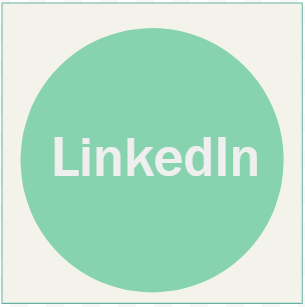
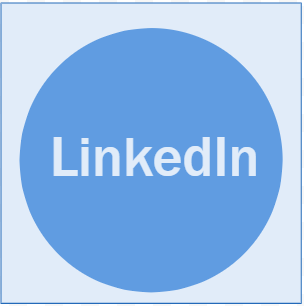
update color scheme

diff --git a/portfolio/src/main/webapp/style.css b/portfolio/src/main/webapp/style.css
@@ -1,5 +1,5 @@
 body {
-  background-color: #f3f3ec;
+  background-color: #E1ECF9;
 }
 
 h1,
@@ -12,7 +12,7 @@ input,
 select,
 li,
 button {
-  color: #858484;
+  color: #133863;
   font-family: Cambria, Cochin, Georgia, Times, 'Times New Roman', serif;
 }
 
@@ -38,11 +38,11 @@ li {
     font-size: 9vw;
     margin: -25px 30px 0 30px;
     padding-bottom: 5px;
-    border-bottom: 2px solid #858484;
+    border-bottom: 3px solid #236AB9;
   }
 
   #mobile-menu:active {
-    color: #b8b8b8;
+    color: #236AB9;
   }
 
   #nav-links {
@@ -56,6 +56,7 @@ li {
   #nav-links a {
     display: block;
     margin: 1px;
+    border-bottom: 3px solid #236AB9;
   }
 
   .nav-container {
@@ -64,27 +65,6 @@ li {
 
   #about-me-link {
     padding-top: 20px;
-    border-bottom: 4px solid #bd5a5a;
-  }
-
-  #projects-link {
-    border-bottom: 4px solid #edc75f;
-  }
-
-  #contact-me-link {
-    border-bottom: 4px solid #87d3af;
-  }
-
-  #gallery-link {
-    border-bottom: 4px solid #eae2a2;
-  }
-
-  #about-photography-link {
-    border-bottom: 4px solid #66b1a2;
-  }
-
-  #blog-link {
-    border-bottom: 4px solid #a73715;
   }
 
   h2 {
@@ -102,7 +82,7 @@ li {
   }
 
   img {
-    border: 5px solid #eae2a2;
+    border: 5px solid #236AB9;
     padding: 15px;
     margin: 10px;
   }
@@ -136,30 +116,11 @@ li {
     padding-bottom: 10px;
     border-bottom: 3px solid;
     margin: 25px 30px;
-  }
-
-  #mobile-about-me-header {
-    border-color: #bd5a5a;
-  }
-
-  #mobile-projects-header {
-    border-color: #edc75f;
-  }
-
-  #mobile-contact-me-header {
-    border-color: #87d3af;
-  }
-
-  #mobile-gallery-header {
-    border-color: #eae2a2;
-  }
-
-  #mobile-blog-header {
-    border-color: #a73715;
+    border-color: #236AB9;
   }
 
   .contact-me-mobile h2 {
-    border: 2px solid #87d3af;
+    border: 2px solid #236AB9;
     margin: 15px 110px;
     padding: 15px;
     border-radius: 5%;
@@ -184,13 +145,13 @@ li {
     height: 250px;
     margin: 10px 35px;
     padding: 5px;
-    border: 3px solid #a73715;
+    border: 3px solid #133863;
     border-radius: 5px;
   }
 
   #comment-container li {
     padding: 9px 10px;
-    border: 2px solid #a73715;
+    border: 2px solid #133863;
     border-radius: 5px;
     text-align: left;
     margin: 5px 10px 0 -30px;
@@ -207,9 +168,9 @@ li {
   #name-input {
     padding: 10px;
     width: 74%;
-    border: 2px solid #a73715;
+    border: 2px solid #133863;
     border-radius: 5px;
-    background-color: #f3f3ec;
+    background-color: #E1ECF9;
     font-size: 4vw;
   }
 
@@ -218,9 +179,9 @@ li {
   #max,
   #submit,
   #comment-container button {
-    background-color: #a73715;
+    background-color: #133863;
     color: whitesmoke;
-    border: 1px solid #a73715;
+    border: 1px solid #133863;
     border-radius: 5px;
     padding: 4px;
     font-size: 4vw;
@@ -282,7 +243,7 @@ li {
   h3,
   p,
   a {
-    color: #858484;
+    color: #133863;
     font-family: Cambria, Cochin, Georgia, Times, 'Times New Roman', serif;
   }
 
@@ -315,7 +276,7 @@ li {
   }
 
   a:hover {
-    color:#b8b8b8;
+    color:#236AB9;
   }
 
   a:hover img {
@@ -354,7 +315,7 @@ li {
   }
 
   .arrow-transition {
-    border: solid #b8b8b8;
+    border: solid #133863;
     border-width: 0 6px 6px 0;
     display: inline-block;
     padding: 8px;
@@ -363,7 +324,7 @@ li {
   }
 
   .arrow-transition:hover {
-    border: solid #858484;
+    border: solid #236AB9;
     border-width: 0 6px 6px 0;
     display: inline-block;
     padding: 8px;
@@ -546,11 +507,11 @@ li {
   }
 
   .comment-box {
-    background-color: rgb(245, 244, 237);
+    background-color: #E1ECF9;
     width: 77%;
     height: 330px;
     margin-top: 130px;
-    border: 2px solid #a73715;
+    border: 2px solid #133863;
     padding: 5px 0 30px 0;
   }
 
@@ -559,7 +520,7 @@ li {
   }
 
   .comment-input {
-    border: 2px solid #a73715;  
+    border: 2px solid #133863;  
     width: 70%;
     padding: 0 30px 20px 30px;
     margin-left: auto;
@@ -576,8 +537,8 @@ li {
 
   #text-input,
   #name-input {
-    background-color: rgb(245, 244, 237);
-    border: 2px solid #a73715;
+    background-color: #E1ECF9;
+    border: 2px solid #133863;
     margin-bottom: 8px;
   }  
 
@@ -585,7 +546,7 @@ li {
   #comment-container li,
   #name-input {
     font-size: 17px;
-    color: #666464;
+    color: #133863;
     padding: 13px;
   }
 
@@ -593,7 +554,7 @@ li {
     width: 100px;
     padding: 11px;
     margin: 5px 0;
-    border: solid #a73715;
+    border: solid #133863;
   }
 
   .comment-text-design,
@@ -606,14 +567,16 @@ li {
   #order,
   #name {
     font-size: 16px;
-    border: 1px solid #b8b8b8;
+    color: #E1ECF9;
+    border: 1px solid #133863;
+    background-color: #133863;
     padding: 2px 5px;
   }
 
   #max:hover,
   #order:hover,
   #name:hover {
-    background-color: whitesmoke;
+    background-color: #236AB9;
   }
 
   #order {
@@ -621,12 +584,12 @@ li {
   }
 
   #comment-container li {
-    border-bottom: 2px solid #a73715;
+    border-bottom: 2px solid #133863;
     margin: 5px 30px 5px -5px;
   }
 
   #comment-container li:hover {
-    box-shadow: 2px 2px 10px 8px #b8b8b8;
+    box-shadow: 2px 2px 10px 8px #236AB9;
   }
 
   .heart {
@@ -637,21 +600,21 @@ li {
   #comment-container button {
     font-size: 15px;
     float: right;
-    border: 1px solid #858484;
+    border: 1px solid #133863;
     padding: 6px;
     margin-top: -6px;
   }
   
   #comment-container button,
   #submit {
-    background-color: #a73715;
+    background-color: #133863;
     color: whitesmoke;
   }
 
   #comment-container button:hover,
   #submit:hover {
-    background-color: #b8b8b8;
-    border-color: #b8b8b8;
+    background-color: #236AB9;
+    border-color: #236AB9;
   }
 
   @keyframes right { 
